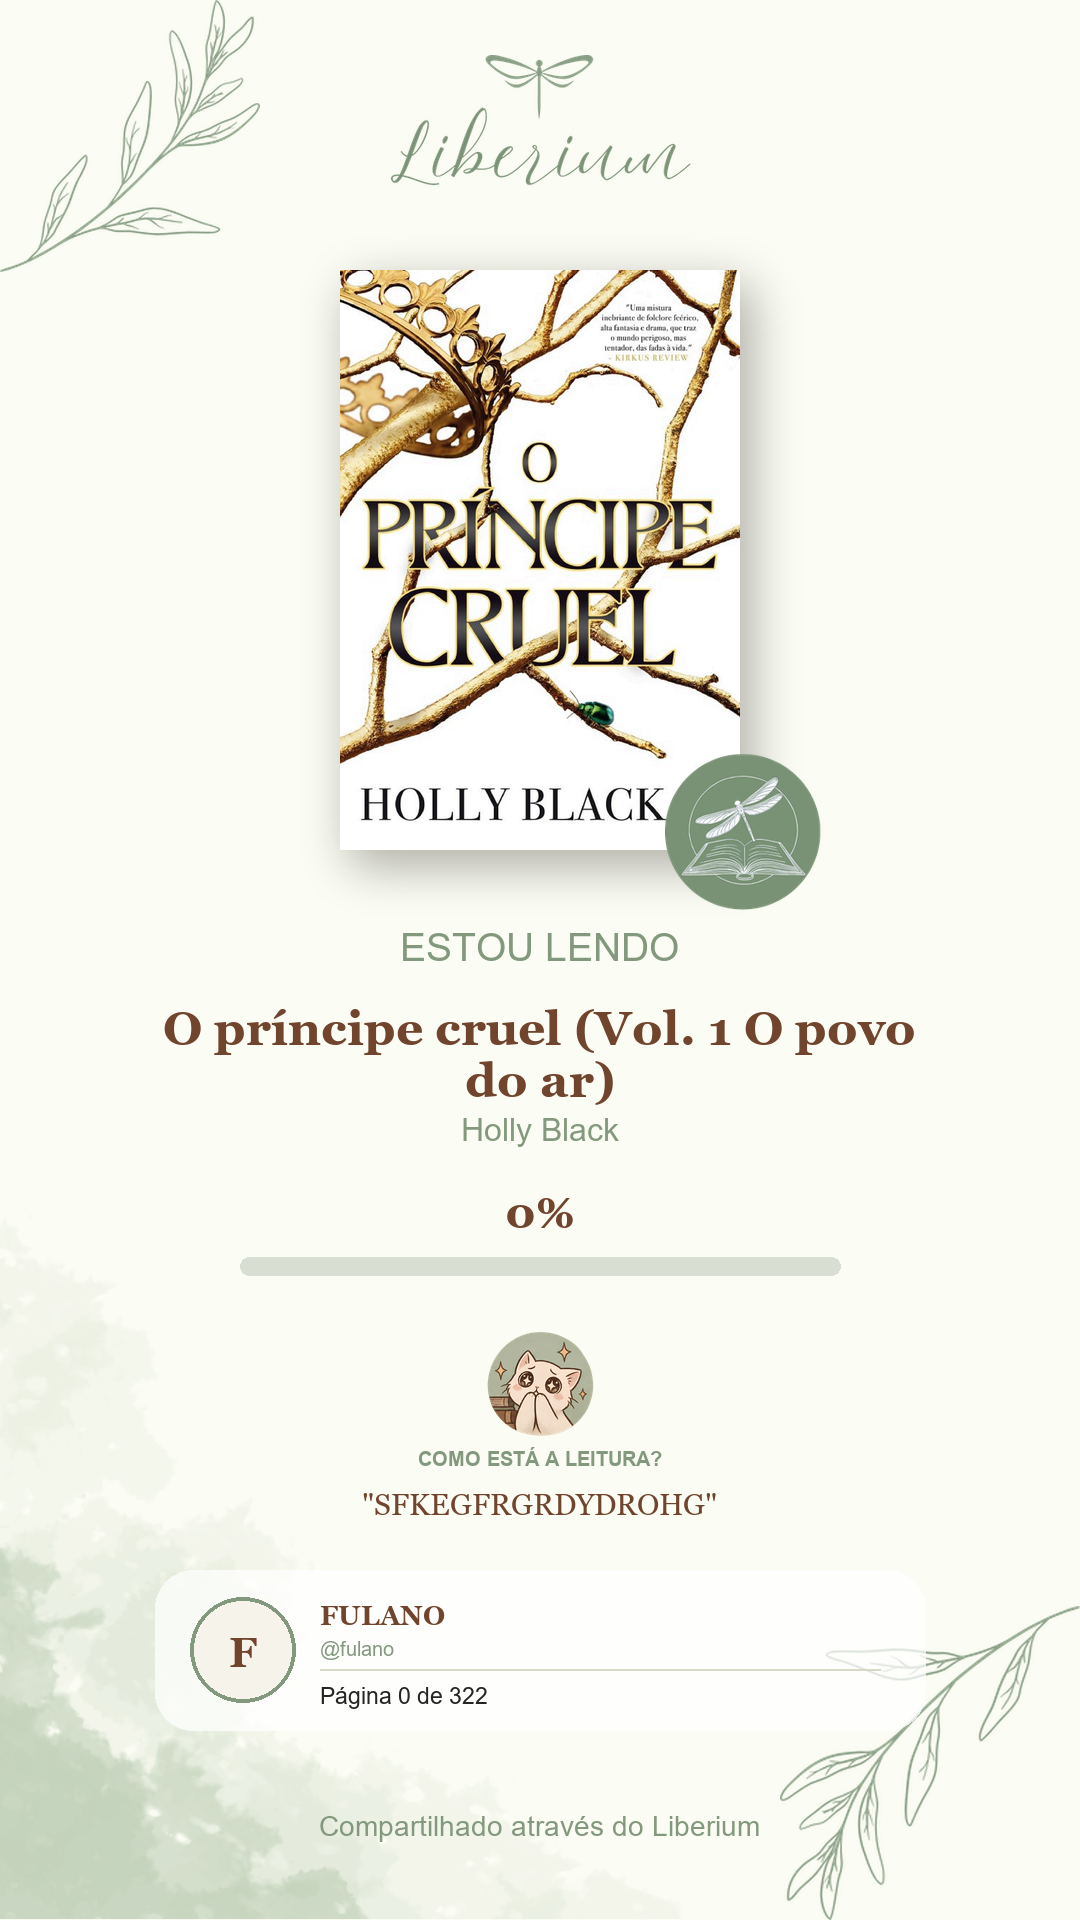
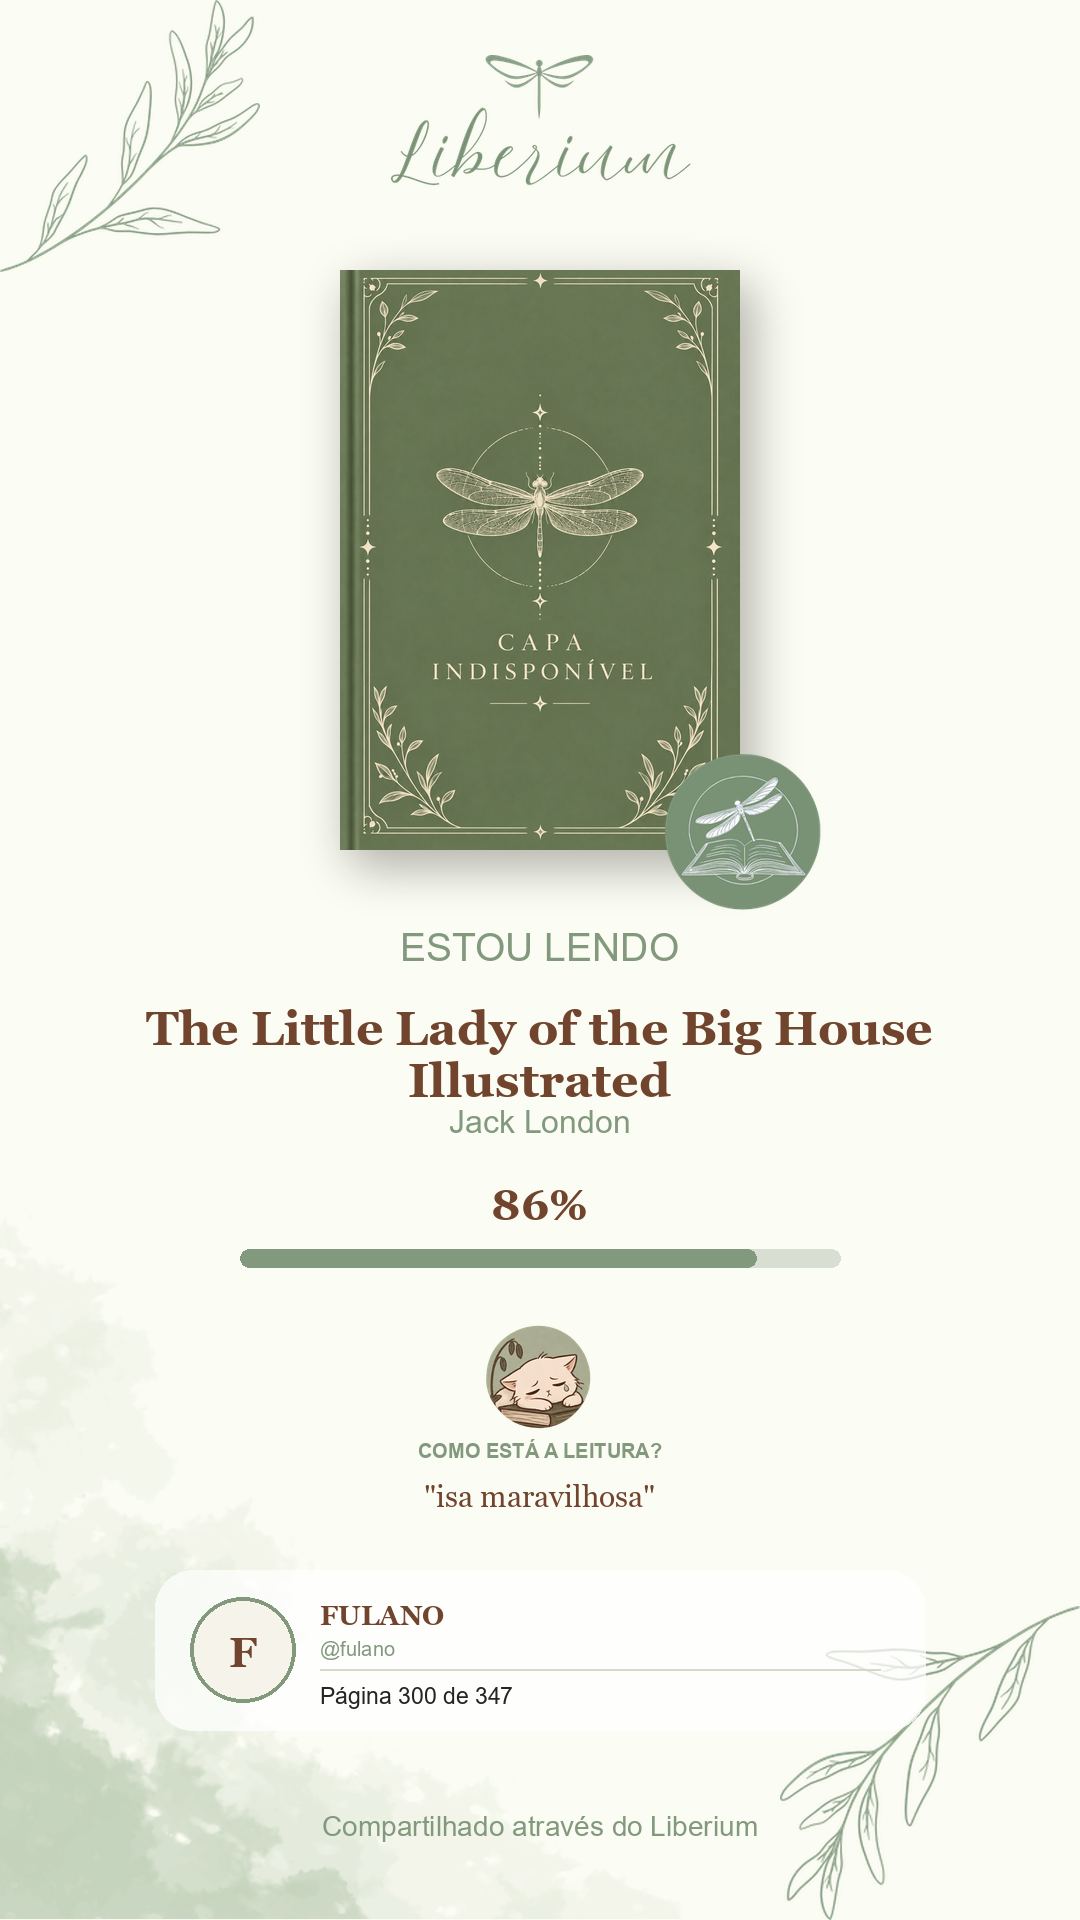
capa indisponivel está funcionando junto com compartilhamento

diff --git a/templates/books/books.html b/templates/books/books.html
@@ -19,6 +19,7 @@
 
     <aside class="coluna-esquerda">
 
+        
         <!-- ================= CAPA ================= -->
 
         {% if livro.capa %}
@@ -34,10 +35,7 @@
             {% else %}
 
                 <img
-                    src="{{ url_for(
-                        'static',
-                        filename=livro.capa
-                    ) }}"
+                    src="{{ url_for('static', filename=livro.capa) }}"
                     alt="{{ livro.titulo }}"
                     class="capa-livro"
                 >
@@ -46,9 +44,14 @@
 
         {% else %}
 
-            <div class="sem-capa capa-livro">
-                Sem capa
-            </div>
+            <img
+                src="{{ url_for(
+                    'static',
+                    filename='img/capas/padrao/capa_padrão.png'
+                ) }}"
+                alt="Capa indisponível"
+                class="capa-livro"
+            >
 
         {% endif %}
 

diff --git a/utils/gerar_imagem.py b/utils/gerar_imagem.py
@@ -309,6 +309,36 @@ def carregar_imagem(origem):
 
 
 # =========================================================
+# CARREGAR CAPA COM IMAGEM PADRÃO
+# =========================================================
+
+def carregar_capa(livro):
+
+    # Primeiro tenta carregar a capa original
+    capa = carregar_imagem(
+        getattr(livro, "capa", None)
+    )
+
+    if capa is not None:
+        return capa
+
+    # Se não existir, utiliza a capa padrão
+    caminho_padrao = os.path.join(
+        STATIC_DIR,
+        "img",
+        "capas",
+        "padrao",
+        "capa_padrão.png"
+    )
+
+    if os.path.isfile(caminho_padrao):
+        with Image.open(caminho_padrao) as imagem:
+            return imagem.convert("RGBA")
+
+    print("Aviso: capa padrão não encontrada.")
+    return None
+
+# =========================================================
 # CROP PROPORCIONAL
 # =========================================================
 
@@ -1453,13 +1483,7 @@ def gerar_card_livro_concluido(
     # CAPA
     # =====================================================
 
-    capa = carregar_imagem(
-        getattr(
-            livro,
-            "capa",
-            None
-        )
-    )
+    capa = carregar_capa(livro)
 
     largura_capa = 470
     altura_capa = 680
@@ -1927,13 +1951,7 @@ def gerar_card_progresso_leitura(
     # CAPA
     # =====================================================
 
-    capa = carregar_imagem(
-        getattr(
-            livro,
-            "capa",
-            None
-        )
-    )
+    capa = carregar_capa(livro)
 
     largura_capa = 400
     altura_capa = 580
